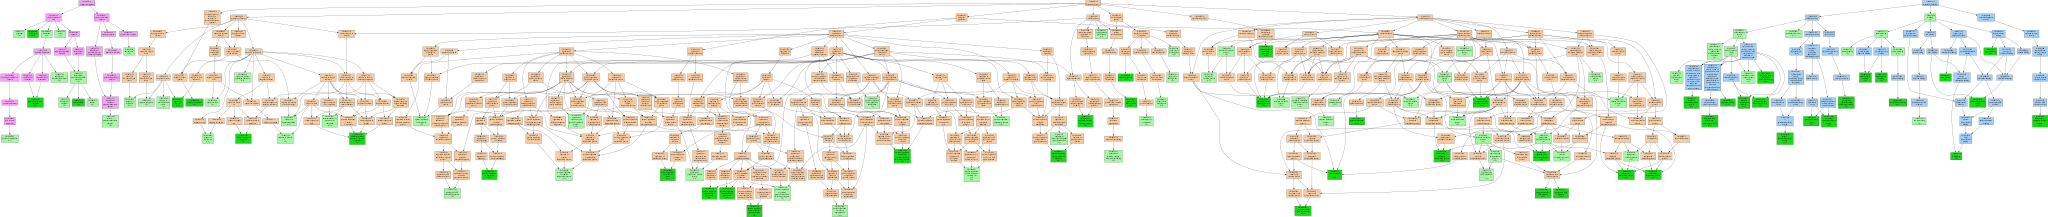
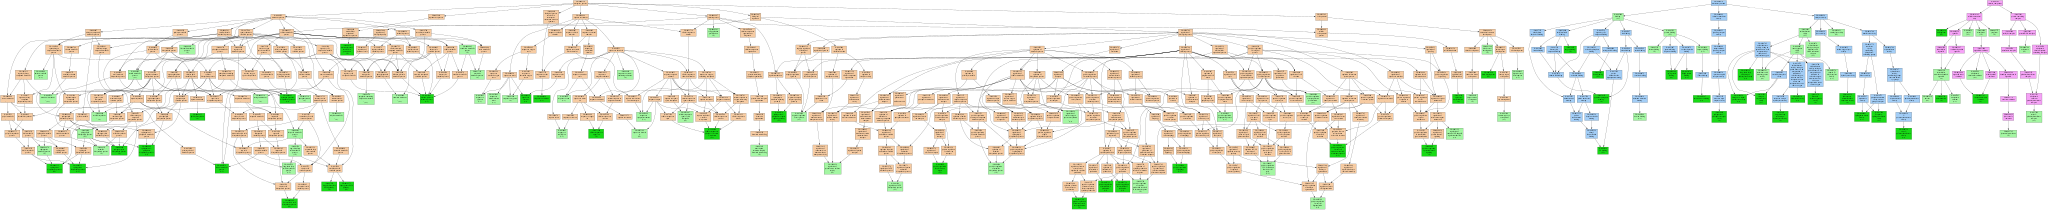
release 0.6.0

diff --git a/README.md b/README.md
@@ -26,6 +26,22 @@ Note all the options available in the interface:
 
 ![GeneScape bar](docs/images/interface-bar.png)
 
+## Color scheme
+
+The colors in the tree carry additional meaning:
+
+- Light Green nodes represent functions that are in the input list.
+- Dark green nodes are functions present in the input and are leaf nodes in the terminology, the most granular annotation possible 
+
+Each subtree in a different GO category has a different color:
+  - Biological Process (BP)
+  - Molecular Function (MF)
+  - Cellular Component (CC)
+
+The subtree coloring is meant to help you understand the level of detail and the specificity of the functional terms you visualize.
+
+Numbers such as 1/4 mean how many genes in the input carry that function.
+
 ## Command line usage
 
 See the installation below on how to get the command line version.
@@ -52,7 +68,7 @@ Which will generate a tree visualization of the test data.
 
 ![GeneScape output](docs/images/genescape-output1.png)
 
-You can pass to the tree visualizer a list of genes or a list of GO ids, or even a mix of both:
+You can pass to the tree visualizer a list of genes or a list of GO ids, or even a mix of both. Here is an example.
 
 ```
 Cyp1a1
@@ -66,22 +82,21 @@ run the `tree` command to visualize the relationships between the GO terms
 genescape tree genes.txt -o output.pdf
 ```
 
-The command generates the following output that shows a huge tree of terms.
+You only had three genes in the input yet even that produces a large tree of terms.
 
 ![GeneScape output](docs/images/genescape-output2.png)
 
-You can narrow down the visualization to terms that only contain the word lipid via:
+You can narrow down the visualization in multiple ways, for example, you can select only terms that match the word `lipid` :
 
 ```console
 genescape tree -m lipid genes.txt -o output.pdf
 ```
 
+When filtered as shown above the output is much more manageable:
+
 ![GeneScape output](docs/images/genescape-output3.png)
 
-```console
-genescape tree -h
-```
-Read more about how [genescape tree](docs/gs_tree.md) works.
+
 
 ## genetrack annotation
 
@@ -118,11 +133,11 @@ GO:0004866,MF,1,endopeptidase inhibitor activity,C3P1,4,(1/4)
 #
 ## Installation
 
-For a standalone executable, download the latest release from the [releases page][release]
+For a standalone executable, download the latest release from the [releases page][release]. We offer executables for Windows and MacOS.
 
 [release]: ...
 
-When isntalled from the command line the software requires Python 3.10 or above. 
+When installed from the command line, the software requires Python 3.10 or above. 
 
 You can install `genescape` via `pip` or `pipx`.
 
@@ -136,9 +151,9 @@ Since the software is meant to be used as a command line tool, [pipx][pipx] is p
 pipx install genescape
 ```
 
-If only use the web interface aka `genescape web` no other software installation is needed.
+If you only use the web interface via `genescape web` no other software installation is needed.
 
-If you want to generate images from the command line, you will also need to have the `dot` software from [Graphviz](https://graphviz.org/) installed and available on your `PATH`. 
+If you want to generate images from the command line without a web browser, you will also need to have the `dot` software from [Graphviz](https://graphviz.org/) installed and available on your `PATH`. 
 
 You can install Graphviz via your package manager or via `conda` with:
 
